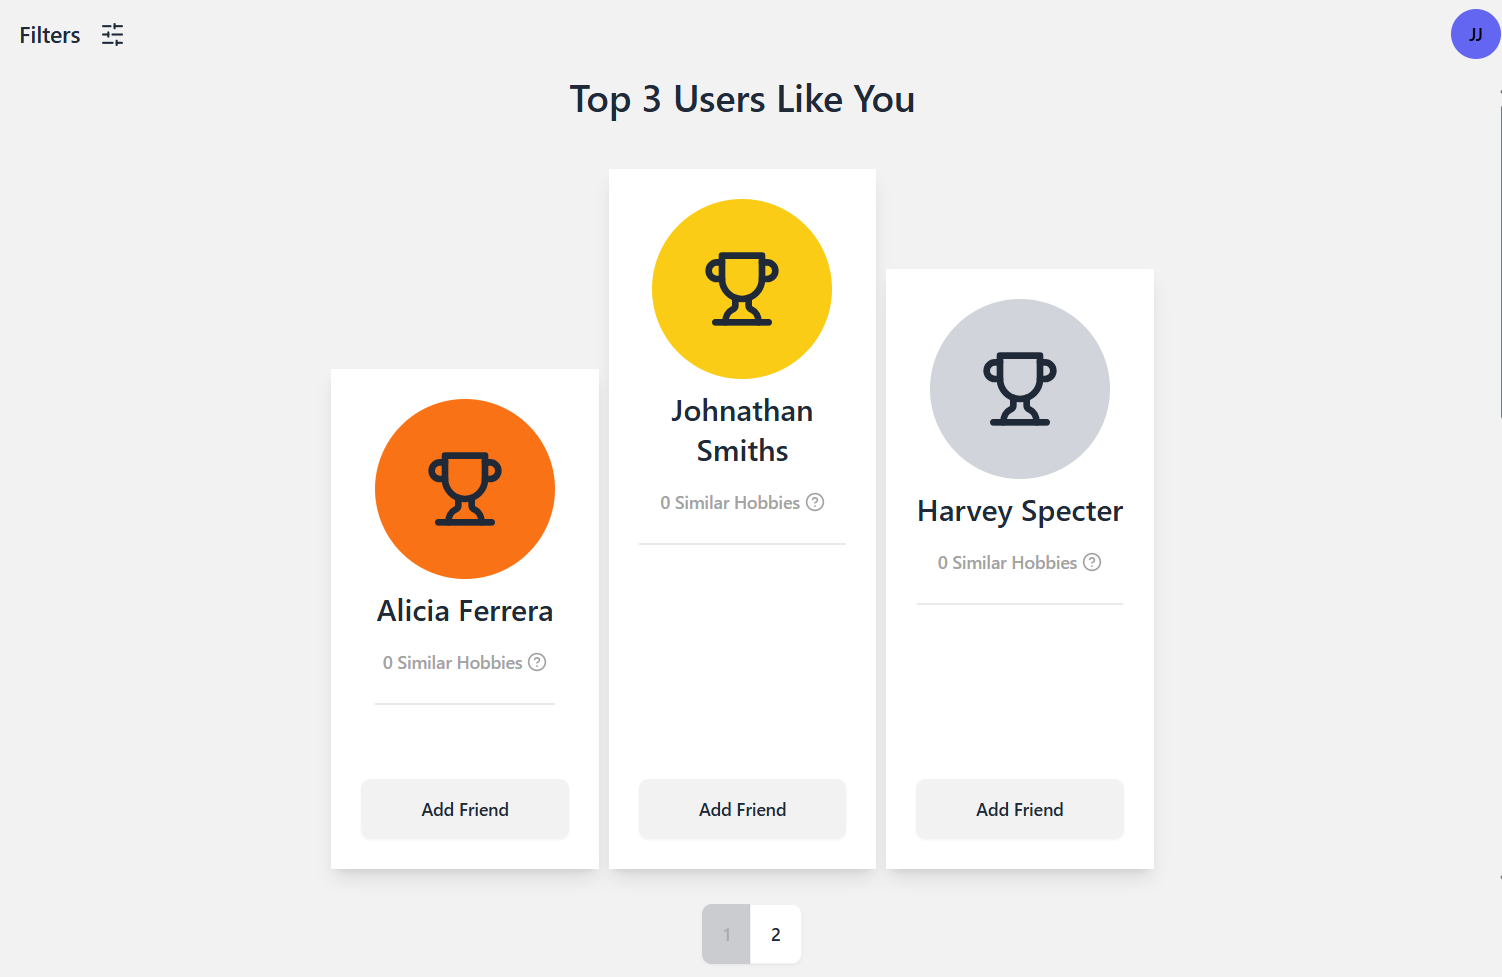
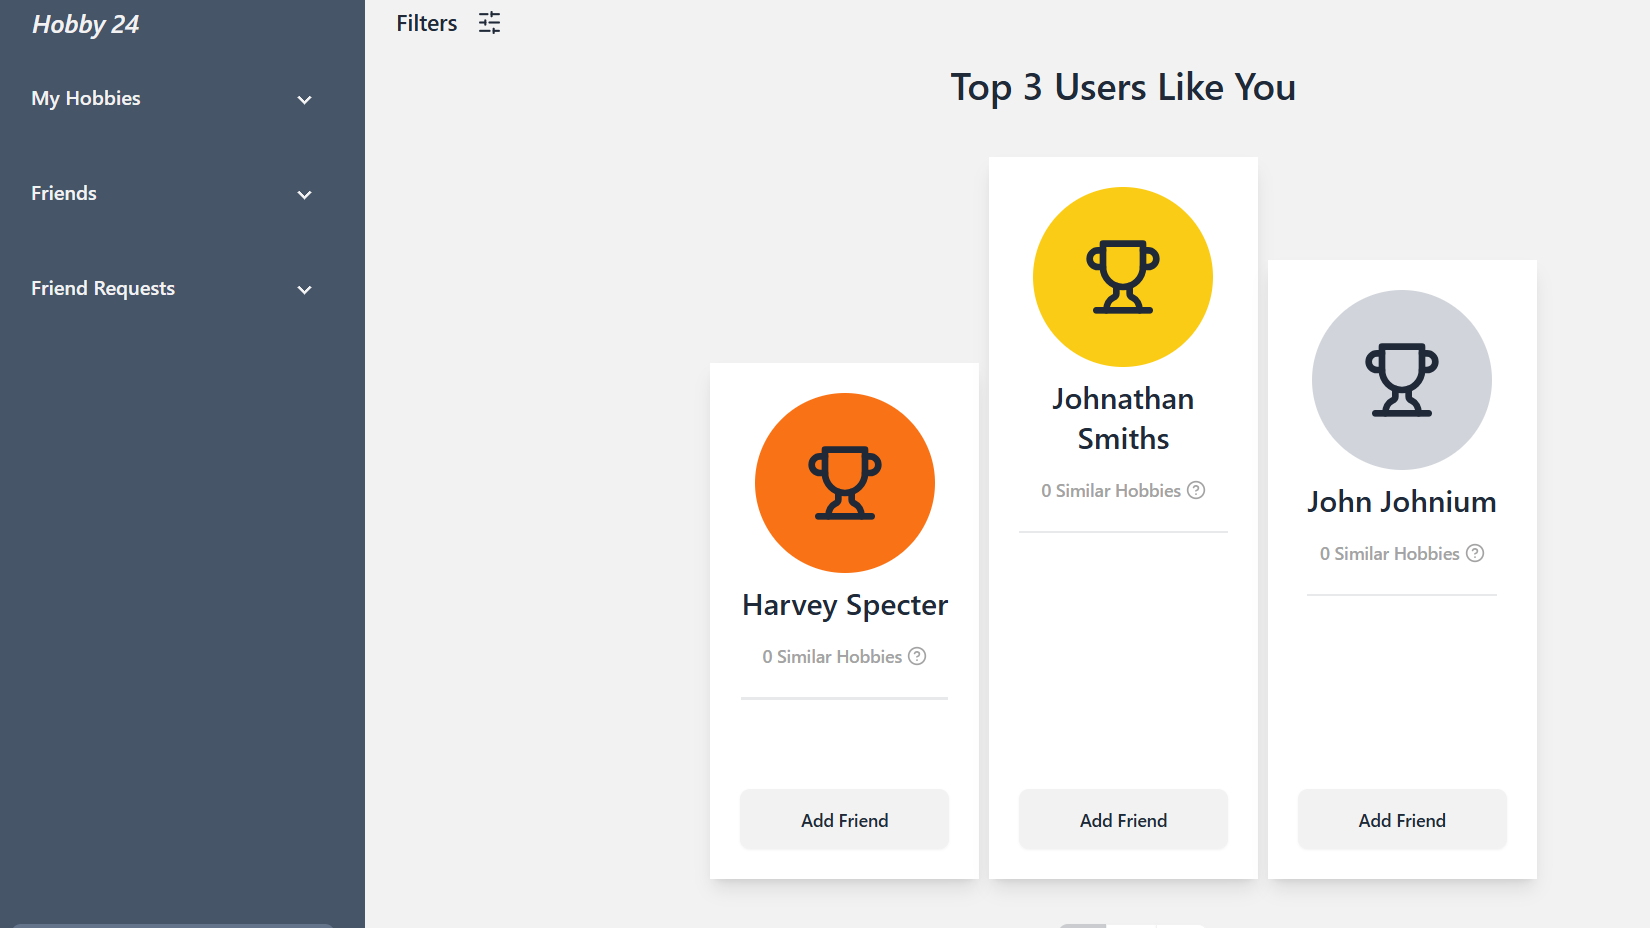
Completed all content for desktop views

diff --git a/src/pages/MainPage.vue b/src/pages/MainPage.vue
@@ -102,23 +102,23 @@
               description="Deep learning model for image classification, with over 90% accuracy."
               full-description="A neural network implementation focused on the CIFAR-10 dataset, exploring various architectures and optimization techniques for image classification tasks."
               image="/nn.png" :technologies="['Python', 'Pytorch', 'Torch', 'CIFAR-10', 'Neural Networks']" variant="white"
-              github-link="https://github.com/Roman-Pretty" @click="openProjectModal" />
+              github-link="https://github.com/Roman-Pretty/portfolio-2025/blob/main/src/nn/CIFAR10%20Classifier.ipynb" @click="openProjectModal" />
           </div>
 
           <div class="aspect-square">
             <ProjectCard title="SWRPG Datapads"
               description="Figma design project for Star Wars RPG interface with extensive user engagement."
-              full-description="A comprehensive UI/UX design project created in Figma for Star Wars RPG datapads, featuring detailed interface designs that have attracted significant user engagement and community feedback."
-              image="/roman.jpeg" :technologies="['Figma', 'UI/UX Design', 'Star Wars RPG', 'Community Design']"
-              variant="white" github-link="https://github.com/Roman-Pretty" @click="openProjectModal" />
+              full-description="A comprehensive UI design project created in Figma for Star Wars RPG, featuring detailed interface designs that have attracted significant user engagement and community feedback."
+              image="/datapad.png" :technologies="['Figma', 'UI/UX Design', 'Just for Fun', 'Community Design']"
+              variant="white" link="https://swrpgdatapad.com" github-link="https://github.com/Roman-Pretty/swrpg-datapad" @click="openProjectModal" />
           </div>
 
           <div class="aspect-square">
-            <ProjectCard title="X-Wing Unlimited Web App"
-              description="Vue.js web application for X-Wing Unlimited game with active user base."
-              full-description="A Vue.js-based web application supporting the X-Wing Unlimited tabletop game community, featuring game management tools and player resources with a growing user base."
-              image="/h24.jpg" :technologies="['Vue.js', 'JavaScript', 'Web Development', 'Gaming Community']"
-              variant="white" link="https://example.com" github-link="https://github.com/Roman-Pretty"
+            <ProjectCard title="X-Wing Unlimited"
+              description="Massive scale Vue.js web application for the tabletop boardgame X-Wing."
+              full-description="A Vue.js-based web application supporting the X-Wing tabletop game community, featuring game management tools and player resources with a growing user base."
+              image="/xwu.png" :technologies="['Vue.js', 'TypeScript', 'Web Development', 'Just for Fun', 'Community Design']"
+              variant="white" link="https://xwingunlimited.com" github-link="https://github.com/Roman-Pretty/xwingcards"
               @click="openProjectModal" />
           </div>
         </div>
@@ -126,37 +126,37 @@
         <!-- Row 2 - Centered (3 columns on tablet, 4 on desktop) -->
         <div class="grid grid-cols-3 lg:grid-cols-4 gap-6 mb-6">
           <div class="aspect-square">
-            <ProjectCard title="Hobby24 Social Platform"
+            <ProjectCard title="Hobby 24 Social Platform"
               description="Team-developed social networking application connecting hobby enthusiasts."
               full-description="A collaborative social networking application developed with a team, designed to connect people with shared hobbies and interests, featuring user profiles, community groups, and activity sharing."
-              image="/qmb.jpg"
+              image="/h24.png"
               :technologies="['Team Development', 'Social Networking', 'Full-Stack', 'Community Features']"
-              variant="white" github-link="https://github.com/Roman-Pretty" @click="openProjectModal" />
+              variant="white" link="https://group24-web-apps-ec221017.apps.a.comp-teach.qmul.ac.uk/login/" github-link="https://github.com/Roman-Pretty/hobby24" @click="openProjectModal" />
           </div>
           <div class="aspect-square">
             <ProjectCard title="TourCast Weather App"
-              description="Weather forecast application providing detailed meteorological information."
+              description="Application providing activity recommendations based on the weather."
               full-description="A comprehensive weather forecast application that provides detailed meteorological information for travelers and outdoor enthusiasts, featuring location-based forecasts and weather alerts."
-              image="/qmb.jpg"
-              :technologies="['Weather APIs', 'Location Services', 'Mobile Development', 'Data Visualization']"
-              variant="white" github-link="https://github.com/Roman-Pretty" @click="openProjectModal" />
+              image="/tc.png"
+              :technologies="['Weather APIs', 'Location Services', 'REST', 'Data Visualization']"
+              variant="white" github-link="https://github.com/Roman-Pretty/TourCast" @click="openProjectModal" />
           </div>
 
           <div class="aspect-square">
-            <ProjectCard title="Enterprise Scale Java Project"
-              description="Massive-scale Minecraft modification with 25 million downloads."
-              full-description="A comprehensive Minecraft modification that has reached over 25 million downloads worldwide. Built with Java and Minecraft Forge, this project demonstrates enterprise-level software development with massive user adoption and community engagement."
+            <ProjectCard title="Enterprise Scale Java Projects"
+              description="Massive-scale Minecraft modifications with over 23 million downloads."
+              full-description="Complex Minecraft modifications reaching over 23 million downloads worldwide. Built with Java, Minecraft Forge and my own custom API, these projects demonstrate enterprise-level software development with massive user adoption and community engagement. I am on hiatus from these projects whilst studying, but they are still available for download and use."
               image="/ed.png" :technologies="['Java', 'Minecraft Forge', 'Gradle', 'Community Management']"
-              variant="blue" github-link="https://github.com/Roman-Pretty" @click="openProjectModal" />
+              variant="blue" github-link="https://github.com/ElenaiDev/ElenaiDodge2.0" link="https://www.curseforge.com/members/elenaidev/projects" @click="openProjectModal" />
           </div>
 
           <div class="aspect-square">
-            <ProjectCard title="Sheringham Acupuncture Site"
-              description="Professional website for acupuncture practice with appointment booking system."
-              full-description="A professional website developed for Sheringham Acupuncture practice, featuring appointment booking functionality, service information, and patient resources to support their healthcare business."
-              image="/holo.jpg"
-              :technologies="['Healthcare Web Dev', 'Appointment System', 'Professional Services', 'Patient Management']"
-              variant="white" link="https://example.com" github-link="https://github.com/Roman-Pretty"
+            <ProjectCard title="Sheringham Acupuncture"
+              description="Professional landing page for acupuncture practice with appointment booking system."
+              full-description="A professional website developed for Sheringham Acupuncture practice to a given specification, featuring appointment booking functionality. The design is specified by the client."
+              image="/sha.png"
+              :technologies="['Healthcare', 'Appointment System', 'Professional Services', 'Web Development']"
+              variant="white" link="http://sheringhamacupuncture.co.uk" github-link="https://github.com/Roman-Pretty/sheringham-acupuncture"
               @click="openProjectModal" />
           </div>
         </div>
@@ -165,19 +165,20 @@
         <div class="transform translate-x-4 lg:translate-x-16">
           <div class="grid grid-cols-2 lg:grid-cols-4 gap-6">
             <div class="aspect-square">
-              <ProjectCard title="Holocron Mobile App"
-                description="React Native application for Star Wars RPG gameplay and character management."
-                full-description="A React Native mobile application designed for Star Wars RPG players, featuring character management, dice rolling, and game reference tools for enhanced tabletop gaming experiences."
-                image="/h24.png" :technologies="['React Native', 'Mobile Development', 'Gaming', 'Star Wars RPG']"
-                variant="white" github-link="https://github.com/Roman-Pretty" @click="openProjectModal" />
+              <ProjectCard title="did my chores!"
+                description="React Native application for chore tracking and management."
+                full-description="What I am currently working on! A React Native mobile application designed for chore tracking and management, featuring task assignment, progress tracking, and reminders. When published, it will be linked below."
+                image="/dmc.png" :technologies="['React Native', 'Mobile Development', 'Task Management']"
+                variant="white" @click="openProjectModal" />
             </div>
 
             <div class="aspect-square">
               <ProjectCard title="Exchange Rate Chrome Extension"
-                description="Browser extension for real-time currency exchange rate monitoring and conversion."
+                description="Super-simple browser extension for real-time currency exchange rate monitoring and conversion."
                 full-description="A Chrome extension that provides real-time currency exchange rates and conversion tools, featuring quick access to current market rates and conversion calculations for international transactions."
-                image="/qmb.png" :technologies="['Chrome Extension', 'JavaScript', 'APIs', 'Financial Data']"
-                variant="white" link="https://example.com" github-link="https://github.com/Roman-Pretty"
+                image="/ce.png" :technologies="['Chrome Extension', 'Just for Fun', 'APIs', 'Financial Data']"
+                variant="white" 
+                github-link="https://github.com/Roman-Pretty/Exchange-Rate-Chrome-Extension"
                 @click="openProjectModal" />
             </div>
 
@@ -185,9 +186,9 @@
               <ProjectCard title="Holly-Eva Portfolio Site"
                 description="Professional portfolio website for musician with elegant design and media integration."
                 full-description="A custom-built portfolio website for musician Holly-Eva, featuring elegant design, media integration, and performance showcases to highlight her musical career and achievements."
-                image="/roman.jpeg"
+                image="/he.png"
                 :technologies="['Web Development', 'Media Integration', 'Portfolio Design', 'Music Industry']"
-                variant="white" link="https://example.com" github-link="https://github.com/Roman-Pretty"
+                variant="white" link="https://holly-eva.com" github-link="https://github.com/Roman-Pretty/holly-eva"
                 @click="openProjectModal" />
             </div>
           </div>
@@ -224,7 +225,7 @@
 
         <!-- QMUL Award -->
         <div class="flex-1">
-          <Award title="Westfield Trust Prize" awarded-by="QMUL Core Awards Body" variant="primary" />
+          <Award title="Westfield Trust Prize" awarded-by="QMUL Core Awards Body" variant="primary" link="https://www.qmul.ac.uk/registry-services/student-information/my-studies-/my-documents/documents-at-queen-mary-/academic-prizes-/" />
         </div>
 
         <!-- Divider 1 -->
@@ -233,7 +234,7 @@
 
         <!-- EECS Award 2 -->
         <div class="flex-1">
-          <Award title="Best Project Showcase" awarded-by="QMUL School of EECS" variant="primary" />
+          <Award title="Best Project Showcase" awarded-by="QMUL School of EECS" variant="primary" link="https://www.linkedin.com/posts/roman-pretty-054800209_i-am-honoured-to-have-received-both-the-demonstrator-activity-7343988145677299713-mHwy?utm_source=social_share_send&utm_medium=member_desktop_web&rcm=ACoAADT6cEABOPTJeZFqp_Pb4bl0ONyILEqpUcI" />
         </div>
 
         <!-- Divider 2 -->
@@ -241,7 +242,7 @@
 
         <!-- EECS Award 1 -->
         <div class="flex-1">
-          <Award title="Demonstrator of the Year" awarded-by="QMUL School of EECS" variant="primary" />
+          <Award title="Demonstrator of the Year" awarded-by="QMUL School of EECS" variant="primary" link="https://www.linkedin.com/posts/roman-pretty-054800209_i-am-honoured-to-have-received-both-the-demonstrator-activity-7343988145677299713-mHwy?utm_source=social_share_send&utm_medium=member_desktop_web&rcm=ACoAADT6cEABOPTJeZFqp_Pb4bl0ONyILEqpUcI" />
         </div>
 
       </div>

diff --git a/src/components/Award.vue b/src/components/Award.vue
@@ -15,6 +15,8 @@ interface AwardProps {
   awardedBy: string;
   /** Color variant for the award box */
   variant?: 'orange' | 'primary';
+  /** Link URL to open when award is clicked */
+  link?: string;
 }
 
 /**
@@ -37,10 +39,19 @@ const getAwardClasses = (): string => {
   
   return `${baseClasses} ${variantClasses[props.variant || 'primary']}`;
 };
+
+/**
+ * Handle award click - open link in new tab if provided
+ */
+const handleClick = (): void => {
+  if (props.link) {
+    window.open(props.link, '_blank');
+  }
+};
 </script>
 
 <template>
-  <div :class="getAwardClasses()">
+  <div :class="getAwardClasses()" @click="handleClick">
     <div class="text-center">
       <h3 class="text-lg font-bold">{{ title }}</h3>
       <p class="text-sm opacity-70 mt-1">Awarded by {{ awardedBy }}</p>

diff --git a/src/components/ProjectModal.vue b/src/components/ProjectModal.vue
@@ -89,7 +89,7 @@ const openLink = (url: string): void => {
         
         <!-- Technologies -->
         <div v-if="project.technologies && project.technologies.length > 0">
-          <h3 class="text-lg font-semibold mb-3">Technologies Used</h3>
+          <h3 class="text-lg font-semibold mb-3">Tags and Technologies</h3>
           <div class="flex flex-wrap gap-2">
             <span 
               v-for="tech in project.technologies" 
